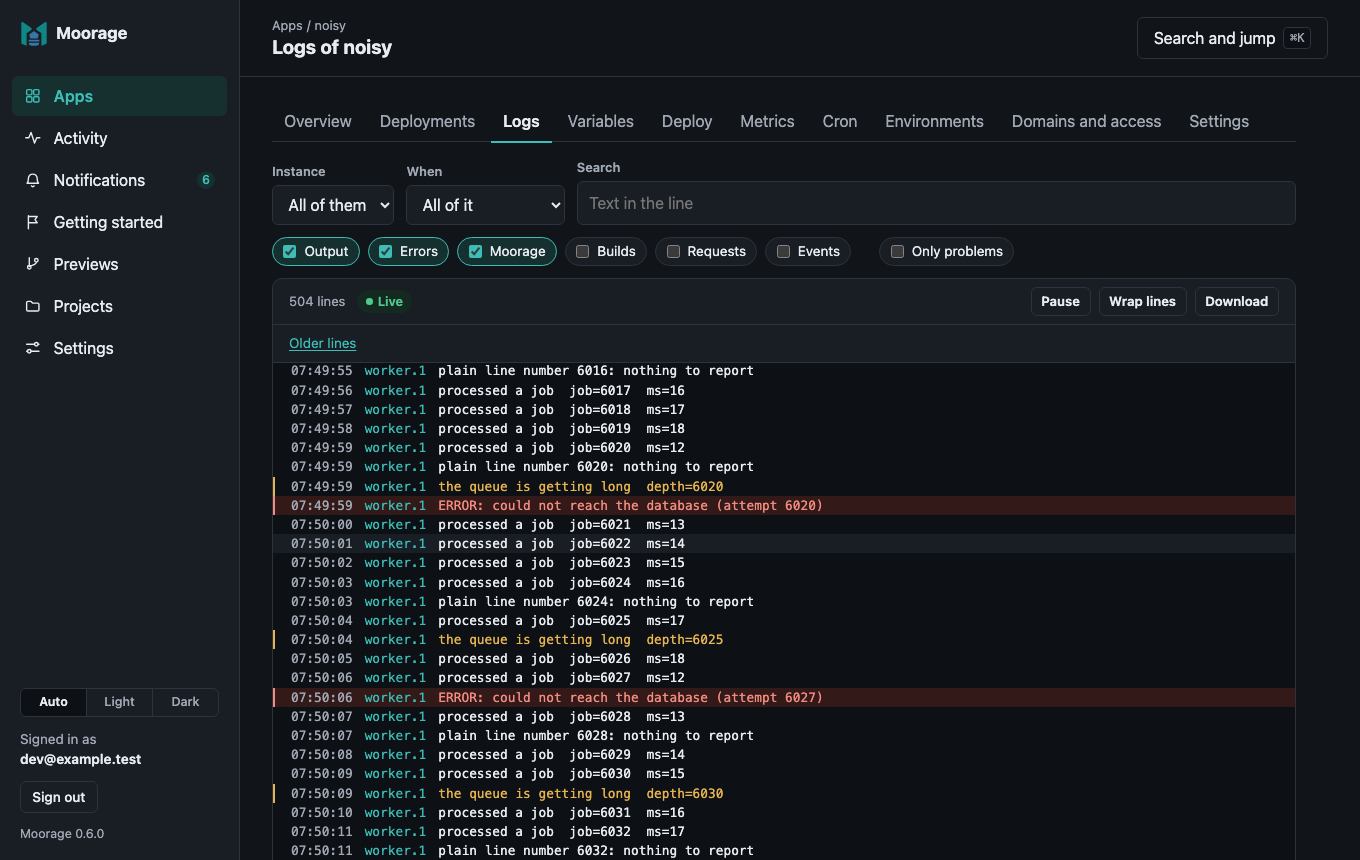
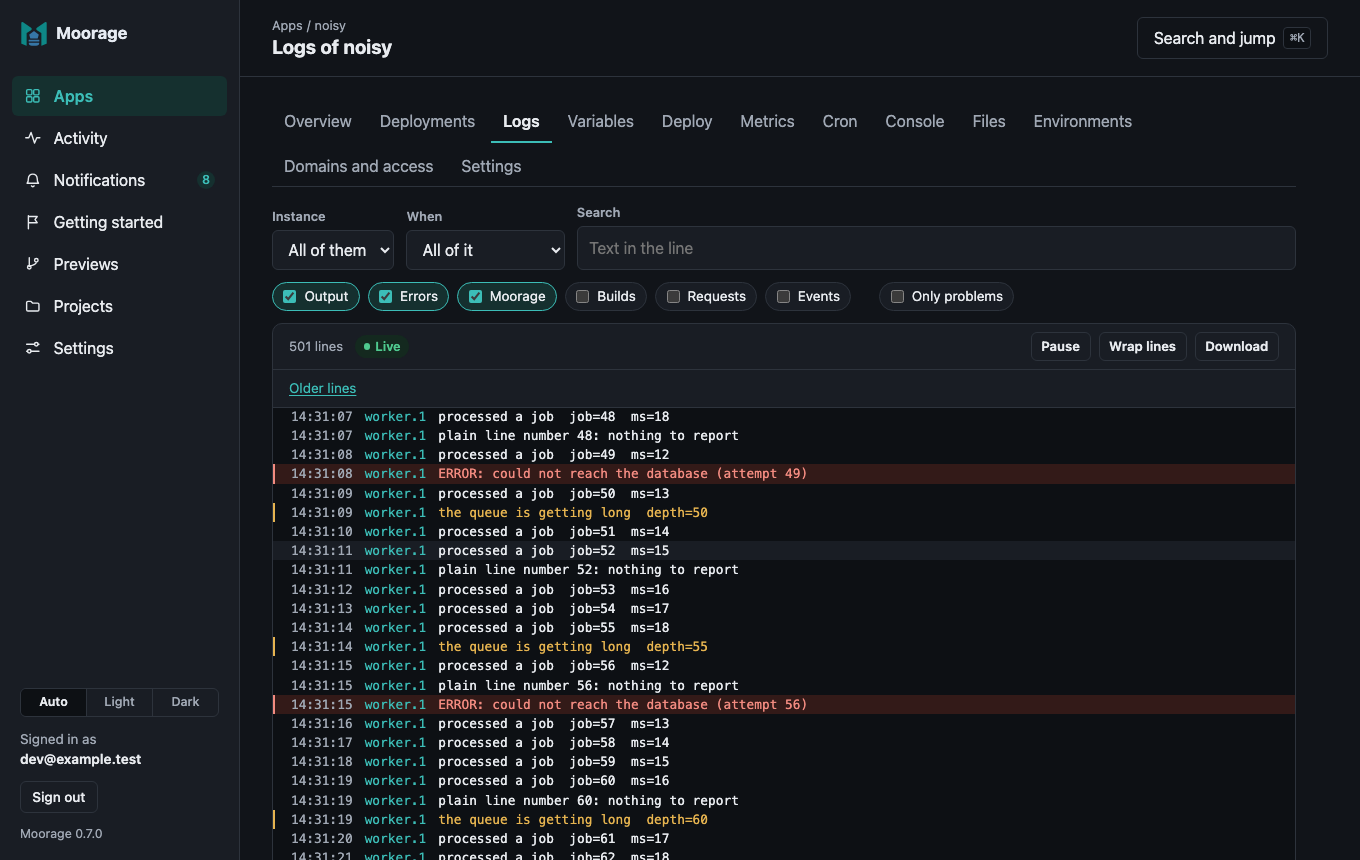
Release 0.7.0

diff --git a/internal/buildinfo/buildinfo.go b/internal/buildinfo/buildinfo.go
@@ -9,7 +9,7 @@ import (
 // Version is the version being developed or released. The release workflow
 // refuses a tag vX.Y.Z that does not match it, so it is set to the release
 // number by the last slice of each wave.
-var Version = "0.6.0"
+var Version = "0.7.0"
 
 // Info describes the running binary.
 type Info struct {

diff --git a/README.md b/README.md
@@ -21,6 +21,8 @@ binary with its state in SQLite, and everything else is built in.
 - **Deploys with `git push`,** over SSH or HTTPS, to a repository on the
   server: the push shows the build as it happens, and fails if the deploy
   does. Or upload a directory with `moor deploy`.
+- **Deploys from GitHub, GitLab or Gitea.** A push deploys, and each pull request gets a preview, with a
+  check and a comment that say where it is. Code from a stranger waits until someone approves that commit.
 - **Builds from source.** Go (from `go.mod`), Python (with uv, from
   `pyproject.toml` and `uv.lock`), Node.js (with npm), static sites, or the
   build command you give it. A `moorage.toml` is optional.
@@ -45,10 +47,13 @@ binary with its state in SQLite, and everything else is built in.
   release.
 - **Runs what an app needs on a schedule.** Cron jobs in its manifest, and `moor run` for
   a command now, with its variables and data, like `moor run -- python manage.py migrate`.
+- **Lets you in when you need to be.** `moor run -it -- /bin/sh` is a terminal in the current release, on any system. The console
+  runs commands too, and shows what is in an app's data directory.
 - **Shows how it is doing, and says when it is not.** Requests, response times, CPU and memory
   for each environment, kept for a year and ready for Prometheus. A failed deployment, a crash
   loop or a failed cron job reaches those concerned in the console, and by webhook, Slack, Teams,
-  Discord or email: one message and not hundreds, then a word when it recovers.
+  Discord or email: one message and not hundreds, then a word when it recovers. Thresholds say when, and logs and
+  metrics can go to syslog or an OpenTelemetry collector as well.
 - **A web console.** Deploy, scale, restart and roll back from the browser; watch a
   deployment's stages and log as they happen; follow and search logs; change
   variables. Drop a folder on it and that is a static site. It works on a phone, and without
@@ -209,8 +214,8 @@ server](docs/tls.md) certificates, [Behind a TLS proxy](docs/proxy.md) nginx, an
 
 ## Status
 
-Moorage 0.6.0 is a server on Linux or macOS for a team: it builds and deploys
-apps from their source or a `git push`, in containers or not, with accounts, projects
+Moorage 0.7.0 is a server on Linux, macOS or Windows for a team: it builds and deploys
+apps from their source, a `git push` or [a forge](docs/forges.md), in containers or not, with accounts, projects
 and roles, an audit log and a [web console](docs/console.md). Every branch can have
 [its own preview and address](docs/previews.md), which sleeps when idle, and [who can
 reach it](docs/access.md) is up to you: a password, a sign-in, a share link. Apps can have
@@ -218,12 +223,13 @@ reach it](docs/access.md) is up to you: a password, a sign-in, a share link. App
 [metrics](docs/metrics.md) and [notifications](docs/notifications.md) when something goes
 wrong. On Linux, [each app runs as a user of its own](docs/isolation.md). [Backups](docs/backups.md)
 are built in, people can sign in with [a second factor, or through your identity provider](docs/sign-in.md),
-and a server [upgrades itself](docs/install.md#upgrading), with a way back. On Windows, it [runs as a service](docs/install.md#3-run-it-as-a-service) too, with apps held to their limits by Job Objects.
+and a server [upgrades itself](docs/install.md#upgrading), with a way back. On Windows, it [runs as a service](docs/install.md#3-run-it-as-a-service) too, with apps held to their limits by Job Objects, though [not kept from the server](docs/isolation.md#on-windows).
+You can [get into an app](docs/interactive.md) with a terminal or from the console, and [send its logs and metrics elsewhere](docs/telemetry.md).
 
 Next, in the [roadmap](spec/11-roadmap.md):
 
-- **0.7.0, Windows, forges and the terminal:** the Windows service, deployments from a forge's
-  webhooks, and a terminal in the console.
+- **0.8.0, beyond the firewall:** certificates from ACME, public or your own, hardening for what faces the internet, with an
+  outside penetration test, and gRPC and sticky sessions.
 
 ## Building Moorage
 

diff --git a/spec/11-roadmap.md b/spec/11-roadmap.md
@@ -1084,7 +1084,7 @@ directory, supervises it, and serves it on its own hostname.
      administrator's account. The lesson of it: unit tests found few of these, and a person's scenario or an
      attacker's plan found most. The drills on real services found what no test had.
 
-## 0.7.0: Windows, forges and the terminal (planned)
+## 0.7.0: Windows, forges and the terminal (released 2026-11-04)
 
 ### Wave 7
 
@@ -1122,6 +1122,13 @@ directory, supervises it, and serves it on its own hostname.
      minute. A sink added long after the last one was removed must not start from where that one stopped. The fake collector and listeners
      are all this has been tried against: no real collector or syslog server has yet been sent anything.
 5. **Release 0.7.0.**
+   - Done: three independent reviews by reading the code, and one of what they led to, each of which found what had to be fixed
+     first.
+   - Found: approving a pull request has to name the commit, or the commit that gets built is the one pushed as someone was reading.
+     A failing or slow sink, or a look at a slow forge, is not to hold up anything else, and every queue and retry needs to be asked
+     what it does when the other end refuses everything. On Windows, closing a folder to everyone is only safe for one that is the
+     server's own, and apps that run as the server's account can reach all that it can, which is now said plainly. A connection to
+     a real forge, collector or syslog server has yet to be tried: the fakes are all that any of this has met.
 
 ## 0.8.0: beyond the firewall (planned)
 

diff --git a/CHANGELOG.md b/CHANGELOG.md
@@ -1,6 +1,15 @@
 # Changelog
 
-## Unreleased
+## 0.7.0 (2026-11-04)
+
+Moorage 0.7.0 brings the server to Windows, connects it to where your code is kept, and lets you into what it runs. A push or a pull request on GitHub, GitLab or Gitea can deploy by itself, with a preview for each pull request. `moor run -it` is a terminal in an app, and the console can run commands and show its data directory. Logs and metrics can go to where your team already looks, and thresholds say when to be told.
+
+To upgrade from 0.6.0, run `moor server upgrade`. Running apps are taken over without a restart, and `moor server upgrade --rollback` goes back. Nothing you have set up behaves differently. Some things to know:
+
+- **On Windows, apps run as the server's own account,** as there is nothing there yet to keep them apart. They can read its database and master key, so anyone who can deploy to a server on Windows can reach every secret on it, whichever project they are in. See [How apps are kept apart](docs/isolation.md#on-windows).
+- **`moor server install` on Windows closes the data directory to everyone but the service,** so it refuses the top of a drive, or anyone's profile. A data directory has to be a folder of its own.
+
+Connecting to a real forge, OpenTelemetry collector or syslog server has been tried against stand-ins that follow their published formats, and not against the real thing. If yours disagrees, please say so.
 
 ### Added
 

diff --git a/docs/install.md b/docs/install.md
@@ -50,18 +50,18 @@ sudo sh install-moor.sh
 
 | Variable | `install.sh` | `install.ps1` | |
 |---|---|---|---|
-| `MOOR_VERSION` | `--version` | `-Version` | A release, such as `v0.6.0`. By default, the latest |
+| `MOOR_VERSION` | `--version` | `-Version` | A release, such as `v0.7.0`. By default, the latest |
 | `MOOR_INSTALL_DIR` | `--install-dir` | `-InstallDir` | An absolute directory |
 | `MOOR_REPOSITORY` | | `-Repository` | `owner/repository`, for a fork |
 | `MOOR_ARCH` | | `-Architecture` | `amd64` or `arm64`, if detecting it fails |
 | `MOOR_NO_PATH_UPDATE` | | `-NoPathUpdate` | Leave the user `PATH` alone |
 
 ```bash
-curl --proto '=https' --tlsv1.2 -fsSL https://raw.githubusercontent.com/robert-mcdermott/moorage/main/install.sh | MOOR_VERSION=v0.6.0 sh
+curl --proto '=https' --tlsv1.2 -fsSL https://raw.githubusercontent.com/robert-mcdermott/moorage/main/install.sh | MOOR_VERSION=v0.7.0 sh
 ```
 
 ```powershell
-$env:MOOR_VERSION = 'v0.6.0'; irm https://raw.githubusercontent.com/robert-mcdermott/moorage/main/install.ps1 | iex
+$env:MOOR_VERSION = 'v0.7.0'; irm https://raw.githubusercontent.com/robert-mcdermott/moorage/main/install.ps1 | iex
 ```
 
 **On Windows,** `irm … | iex` reads the script into memory and runs it, so the

diff --git a/docs/manifest.md b/docs/manifest.md
@@ -3,7 +3,7 @@
 `moorage.toml`, at the top of an app's directory, says how Moorage builds
 and runs the app. It is optional: without it, Moorage detects the kind of
 app (see [Detection](#detection)), and `moor manifest explain` shows what it
-detected. This page describes the manifest as Moorage 0.6.0 implements it;
+detected. This page describes the manifest as Moorage 0.7.0 implements it;
 the [design](../spec/03-manifest.md) describes what later releases add.
 
 ```bash

diff --git a/docs/README.md b/docs/README.md
@@ -1,7 +1,7 @@
 # Moorage documentation
 
 How to install Moorage, run it, and deploy apps to it. This documentation
-describes Moorage 0.6.0; the [design documents](../spec/README.md) describe
+describes Moorage 0.7.0; the [design documents](../spec/README.md) describe
 how it works inside and where it is going.
 
 ## Start here

diff --git a/docs/troubleshooting.md b/docs/troubleshooting.md
@@ -12,7 +12,7 @@ server's files.
 
 ```text
 ✔ config         /etc/moorage/server.toml
-✔ server         running 0.6.0 on :80
+✔ server         running 0.7.0 on :80
 ✔ listen.http    answering on :80
 ✔ listen.https   answering on :443
 ✔ listen.ssh     answering on :2222
